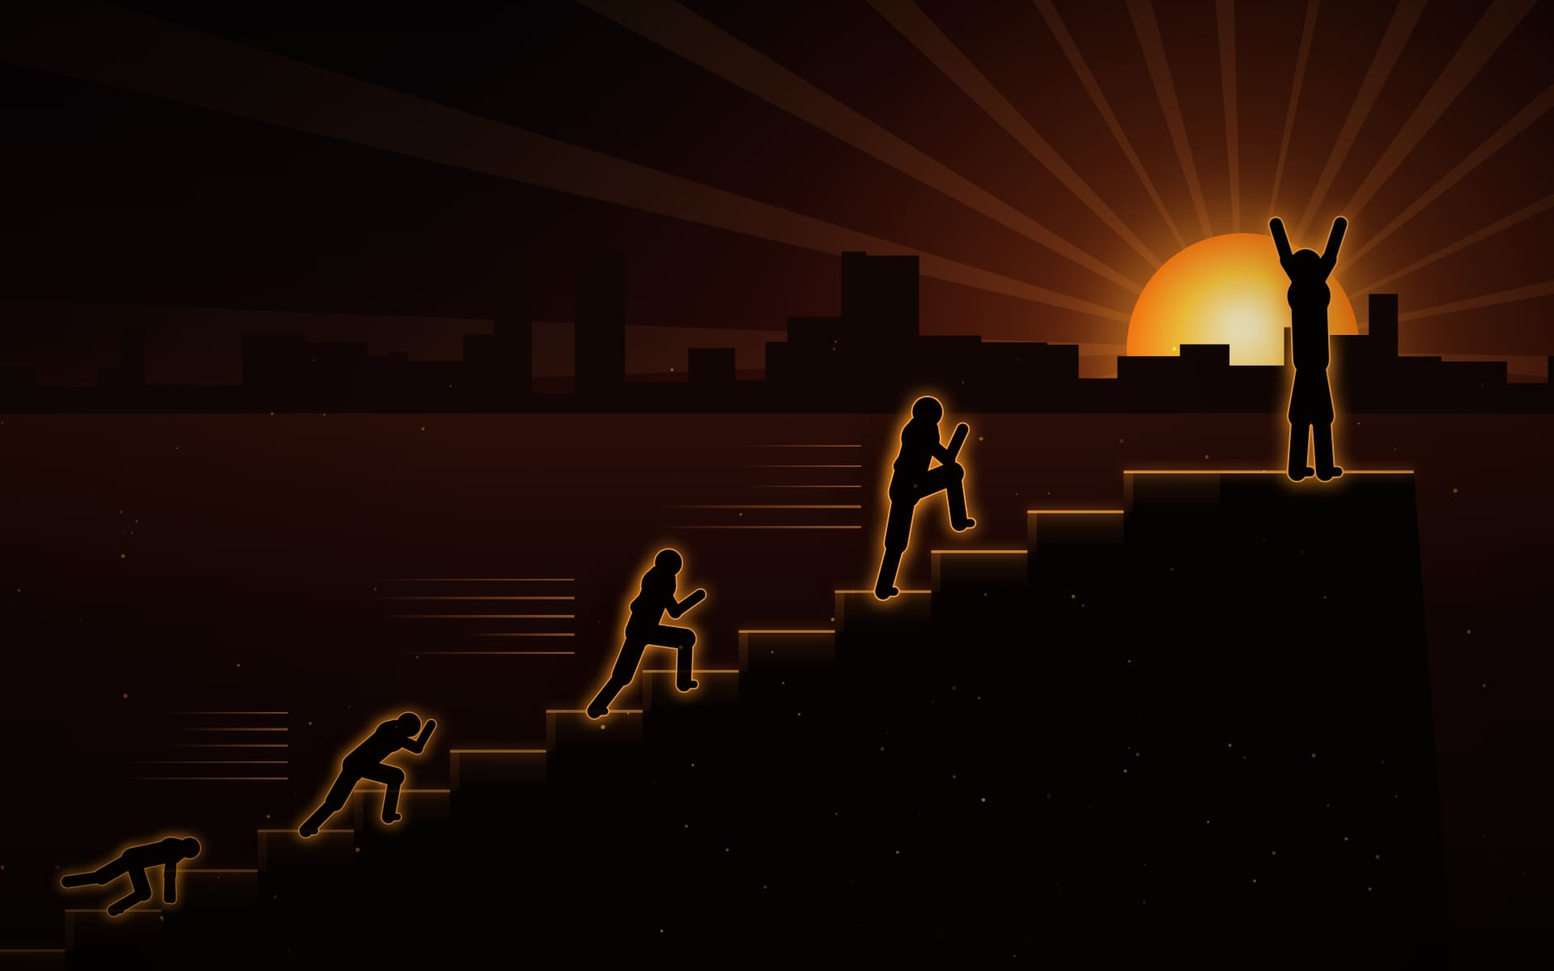
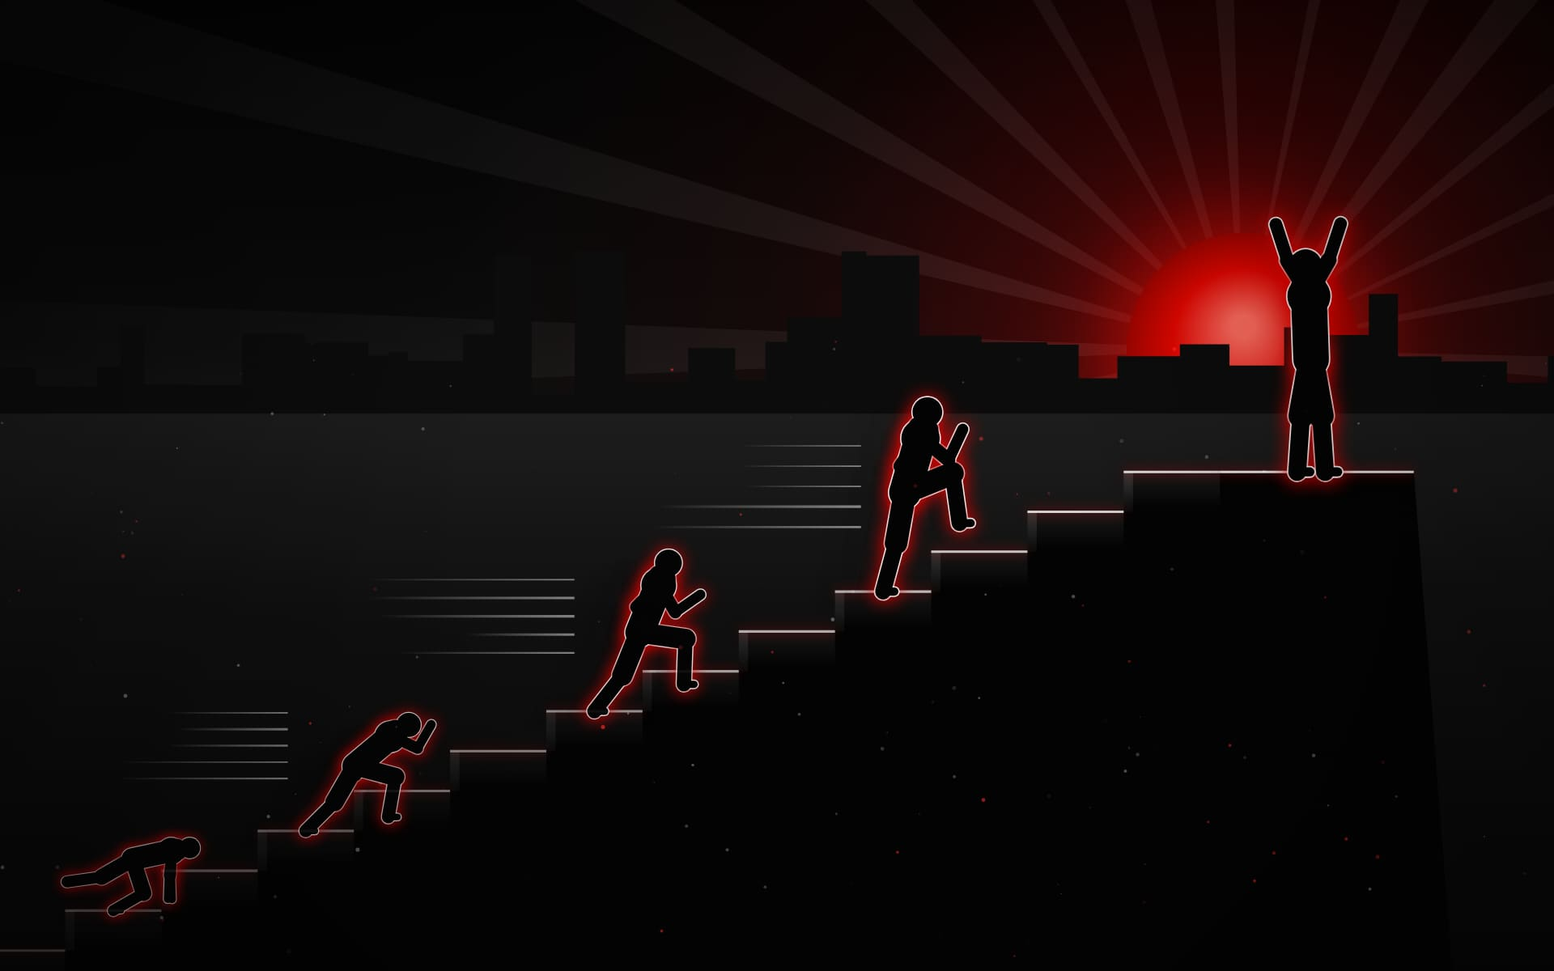
Luxury black, white and red colour scheme; background recoloured to match
Claude-Session: https://claude.ai/code/session_015HK9XfXWS6XuzpB8tKHbMa

diff --git a/web/app.css b/web/app.css
@@ -4,25 +4,25 @@
    Layout: sticky brand bar; side menu on wide screens; bottom tab bar on phones. */
 :root{
   color-scheme:dark;
-  --night:#060303;
-  --panel:rgba(14,6,5,.86);
-  --panel-solid:#140A08;
-  --lift:rgba(255,226,200,.07);
-  --line:rgba(255,196,150,.20);
-  --line-strong:rgba(255,196,150,.38);
-  --ivory:#FFF7EE;
-  --muted:#E6D6C6;
-  --ember:#FF3B26;
-  --flame:#FF7A12;
-  --gold:#FFC31F;
-  --ink:#1A0B05;
+  --night:#040404;
+  --panel:rgba(8,8,8,.86);
+  --panel-solid:#0D0D0D;
+  --lift:rgba(232,232,232,.07);
+  --line:rgba(255,255,255,.12);
+  --line-strong:rgba(255,255,255,.26);
+  --ivory:#FFFFFF;
+  --muted:#C2C2C2;
+  --ember:#E10600;
+  --flame:#E10600;
+  --gold:#FF3B30;
+  --ink:#FFFFFF;
   --ok:#7BE3A4;
-  --bad:#FF9A8A;
-  --scrim:rgba(6,3,3,.66);
-  --glow:0 0 14px rgba(255,150,40,.55),0 0 38px rgba(255,80,20,.30);
-  --glow-sm:0 0 12px rgba(255,150,40,.38);
-  --tglow:0 0 14px rgba(255,150,40,.62),0 0 2px rgba(255,210,140,.45);
-  --tsoft:0 0 12px rgba(255,140,40,.22);
+  --bad:#FF3B30;
+  --scrim:rgba(4,4,4,.66);
+  --glow:0 0 16px rgba(225,6,0,.45),0 10px 30px rgba(225,6,0,.22);
+  --glow-sm:0 0 12px rgba(225,6,0,.30);
+  --tglow:0 0 18px rgba(225,6,0,.45);
+  --tsoft:0 1px 2px rgba(0,0,0,.6);
   --display:'Barlow Condensed','Arial Narrow',system-ui,sans-serif;
   --body:'Barlow',system-ui,-apple-system,'Segoe UI',sans-serif;
   --tab-h:66px;
@@ -33,7 +33,7 @@ img{max-width:100%}
 [hidden]{display:none!important}
 body{background:var(--night);color:var(--ivory);font:16px/1.55 var(--body);text-shadow:var(--tsoft);-webkit-tap-highlight-color:transparent}
 h1,h2,h3,p,ul,ol{margin:0}ul,ol{padding:0;list-style:none}
-h1,h2{font-family:var(--display);letter-spacing:.005em;text-transform:uppercase;text-wrap:balance;font-weight:800;line-height:.98;text-shadow:0 0 20px rgba(255,150,40,.42),0 2px 18px rgba(0,0,0,.65)}
+h1,h2{font-family:var(--display);letter-spacing:.005em;text-transform:uppercase;text-wrap:balance;font-weight:800;line-height:.98;text-shadow:0 2px 18px rgba(0,0,0,.7)}
 h1{font-size:clamp(34px,5.6vw,60px)}
 h2{font-size:clamp(26px,3.2vw,34px)}
 h3{font-size:18px;font-weight:600;line-height:1.3}
@@ -44,17 +44,17 @@ a{color:var(--ivory)}
 /* ---- the artwork behind every screen */
 .bg{position:fixed;inset:0;z-index:-1;background:var(--night) url("bg-wide.jpg") center/cover no-repeat;pointer-events:none}
 @media(orientation:portrait){.bg{background-image:url("bg-tall.jpg")}}
-.bg::before{content:"";position:absolute;inset:0;background:radial-gradient(60% 50% at 70% 60%,rgba(255,120,30,.22),transparent 70%);animation:breathe 9s ease-in-out infinite}
+.bg::before{content:"";position:absolute;inset:0;background:radial-gradient(60% 50% at 70% 60%,rgba(225,6,0,.22),transparent 70%);animation:breathe 9s ease-in-out infinite}
 .bg::after{content:"";position:absolute;inset:0;background:url("grain.png");opacity:.55;mix-blend-mode:overlay}
 @keyframes breathe{0%,100%{opacity:.25}50%{opacity:1}}
 
 /* ---- icons */
-.ic{width:22px;height:22px;flex:none;fill:none;stroke:currentColor;stroke-width:1.8;stroke-linecap:round;stroke-linejoin:round;filter:drop-shadow(0 0 6px rgba(255,150,40,.7))}
+.ic{width:22px;height:22px;flex:none;fill:none;stroke:currentColor;stroke-width:1.8;stroke-linecap:round;stroke-linejoin:round;filter:drop-shadow(0 0 6px rgba(225,6,0,.7))}
 
 /* ---- top bar */
-.top{position:sticky;top:env(safe-area-inset-top,0px);z-index:6;background:rgba(8,4,4,.72);-webkit-backdrop-filter:blur(18px) saturate(1.3);backdrop-filter:blur(18px) saturate(1.3);border-bottom:1px solid var(--line)}
+.top{position:sticky;top:env(safe-area-inset-top,0px);z-index:6;background:rgba(5,5,5,.72);-webkit-backdrop-filter:blur(18px) saturate(1.3);backdrop-filter:blur(18px) saturate(1.3);border-bottom:1px solid var(--line)}
 .bar{display:flex;align-items:center;gap:10px 14px;max-width:1220px;margin:0 auto;padding:10px 16px}
-.mark{font-family:var(--display);font-size:32px;font-weight:800;font-style:italic;text-transform:uppercase;letter-spacing:.01em;text-decoration:none;line-height:1;margin-right:auto;text-shadow:0 0 18px rgba(255,150,40,.5)}
+.mark{font-family:var(--display);font-size:32px;font-weight:800;font-style:italic;text-transform:uppercase;letter-spacing:.01em;text-decoration:none;line-height:1;margin-right:auto;text-shadow:0 0 18px rgba(225,6,0,.5)}
 .chip{display:flex;align-items:center;gap:10px;min-height:44px;padding:0 6px;text-decoration:none;font-weight:600;min-width:0}
 .chip .who{white-space:nowrap;overflow:hidden;text-overflow:ellipsis;max-width:26vw;color:var(--muted)}
 .chip .dot{width:36px;height:36px;flex:none;border-radius:50%;display:grid;place-items:center;font:700 14px var(--body);color:var(--ink);background:linear-gradient(135deg,var(--gold),var(--flame));box-shadow:var(--glow-sm);text-shadow:none}
@@ -72,7 +72,7 @@ main{min-width:0;display:flex;flex-direction:column;gap:20px}
 .nav:empty{display:none}
 .nav a{position:relative;overflow:hidden;display:flex;align-items:center;gap:12px;min-height:46px;padding:0 14px;border-radius:14px;color:var(--muted);text-decoration:none;font-weight:500;transition:color .15s,background .15s}
 .nav a:hover{color:var(--ivory);background:var(--lift)}
-.nav a[aria-current="page"]{color:var(--gold);background:rgba(255,160,40,.12);box-shadow:inset 0 0 0 1px rgba(255,180,80,.35),var(--glow-sm);text-shadow:var(--tglow)}
+.nav a[aria-current="page"]{color:var(--gold);background:rgba(225,6,0,.12);box-shadow:inset 0 0 0 1px rgba(255,59,48,.35),var(--glow-sm);text-shadow:var(--tglow)}
 .navlabel{font-size:13px;font-weight:600;color:var(--flame);padding:14px 14px 4px;text-shadow:var(--tglow)}
 
 /* ---- bottom tab bar (phones) */
@@ -88,16 +88,16 @@ main{min-width:0;display:flex;flex-direction:column;gap:20px}
   body[data-route="room"] .tabbar,body[data-route="call"] .tabbar{display:none!important}
   body[data-route="room"] .shell,body[data-route="call"] .shell{padding-bottom:40px!important}
   body[data-tabs="1"] .shell{padding-bottom:calc(var(--tab-h) + env(safe-area-inset-bottom,0px) + 28px)}
-  body[data-tabs="1"] .tabbar{position:fixed;left:0;right:0;bottom:0;z-index:7;display:grid;grid-template-columns:repeat(5,minmax(0,1fr));padding:6px 6px calc(6px + env(safe-area-inset-bottom,0px));background:rgba(8,4,4,.80);-webkit-backdrop-filter:blur(20px) saturate(1.3);backdrop-filter:blur(20px) saturate(1.3);border-top:1px solid var(--line)}
+  body[data-tabs="1"] .tabbar{position:fixed;left:0;right:0;bottom:0;z-index:7;display:grid;grid-template-columns:repeat(5,minmax(0,1fr));padding:6px 6px calc(6px + env(safe-area-inset-bottom,0px));background:rgba(5,5,5,.80);-webkit-backdrop-filter:blur(20px) saturate(1.3);backdrop-filter:blur(20px) saturate(1.3);border-top:1px solid var(--line)}
 }
 .tab{position:relative;overflow:hidden;display:flex;flex-direction:column;align-items:center;justify-content:center;gap:3px;min-height:54px;border-radius:14px;color:var(--muted);text-decoration:none;font-size:12px;font-weight:600;transition:color .15s,transform .12s}
 .tab .ic{width:24px;height:24px}
 .tab[aria-current="page"]{color:var(--gold);text-shadow:var(--tglow)}
-.tab[aria-current="page"] .ic{filter:drop-shadow(0 0 9px rgba(255,170,40,.95))}
+.tab[aria-current="page"] .ic{filter:drop-shadow(0 0 9px rgba(225,6,0,.95))}
 .tab:active{transform:scale(.92)}
 
 /* ---- text helpers */
-.eyebrow{font-size:14px;font-weight:600;color:var(--flame);text-shadow:var(--tglow)}
+.eyebrow{font-size:14px;font-weight:600;color:var(--gold);text-shadow:var(--tglow)}
 .lede{font-size:18px;line-height:1.55;max-width:56ch}
 .meta{color:var(--muted);font-size:15px}
 .it{font-weight:600}
@@ -111,39 +111,39 @@ main{min-width:0;display:flex;flex-direction:column;gap:20px}
 @media(max-width:1080px){.cols.quad{grid-template-columns:repeat(2,minmax(0,1fr));gap:12px}}
 
 /* ---- panels */
-.card,.pagehead{background:var(--panel);border:1px solid var(--line);border-radius:22px;padding:22px;display:flex;flex-direction:column;gap:14px;min-width:0;box-shadow:0 14px 44px rgba(0,0,0,.45),inset 0 1px 0 rgba(255,226,190,.09)}
+.card,.pagehead{background:var(--panel);border:1px solid var(--line);border-radius:22px;padding:22px;display:flex;flex-direction:column;gap:14px;min-width:0;box-shadow:0 14px 44px rgba(0,0,0,.45),inset 0 1px 0 rgba(231,231,231,.09)}
 .pagehead{gap:8px}
 .card .pagehead{background:none;border:0;padding:0;box-shadow:none;border-radius:0}
-.card.glow{background:linear-gradient(135deg,rgba(255,90,20,.30),rgba(17,8,7,.84) 58%);border-color:var(--line-strong);box-shadow:0 14px 44px rgba(0,0,0,.45),0 0 34px rgba(255,90,20,.22),inset 0 1px 0 rgba(255,226,190,.14)}
+.card.glow{background:linear-gradient(135deg,rgba(225,6,0,.30),rgba(11,11,11,.84) 58%);border-color:var(--line-strong);box-shadow:0 14px 44px rgba(0,0,0,.45),0 0 34px rgba(225,6,0,.22),inset 0 1px 0 rgba(231,231,231,.14)}
 .hero{padding:clamp(24px,5vw,60px);gap:20px}
 
 /* ---- buttons */
 .btn{position:relative;overflow:hidden;display:inline-flex;align-items:center;justify-content:center;gap:8px;min-height:50px;padding:0 24px;border-radius:27px;border:1px solid var(--line-strong);background:var(--lift);color:var(--ivory);font:600 16px var(--body);cursor:pointer;text-decoration:none;text-shadow:var(--tsoft);transition:transform .12s,box-shadow .2s,border-color .2s,background .2s;-webkit-user-select:none;user-select:none}
 .btn:hover{border-color:var(--gold);box-shadow:var(--glow-sm)}
 .btn:active{transform:scale(.95)}
-.btn.gold{background:linear-gradient(135deg,#FFD23A,var(--flame));border-color:transparent;color:var(--ink);text-shadow:none;box-shadow:var(--glow)}
-.btn.gold:hover{box-shadow:0 0 18px rgba(255,170,40,.8),0 0 52px rgba(255,90,20,.45)}
+.btn.gold{background:linear-gradient(135deg,#FF2A1F,#A80400);border-color:transparent;color:var(--ink);text-shadow:none;box-shadow:var(--glow)}
+.btn.gold:hover{box-shadow:0 0 18px rgba(225,6,0,.8),0 0 52px rgba(225,6,0,.45)}
 .btn.gold .ic{filter:none}
 .btn.sm{min-height:44px;padding:0 18px;font-size:15px}
-.btn.bad{color:var(--bad);border-color:rgba(255,154,138,.45)}
-.btn.bad:hover{box-shadow:0 0 14px rgba(255,90,70,.5);border-color:var(--bad)}
-.btn[aria-pressed="true"]{background:rgba(255,170,40,.20);border-color:var(--gold);color:var(--gold);box-shadow:var(--glow-sm);text-shadow:var(--tglow)}
-.btn.gold[aria-pressed="true"]{background:linear-gradient(135deg,#FFD23A,var(--flame));color:var(--ink);text-shadow:none}
+.btn.bad{color:var(--bad);border-color:rgba(255,59,48,.45)}
+.btn.bad:hover{box-shadow:0 0 14px rgba(255,59,48,.5);border-color:var(--bad)}
+.btn[aria-pressed="true"]{background:rgba(225,6,0,.20);border-color:var(--gold);color:var(--gold);box-shadow:var(--glow-sm);text-shadow:var(--tglow)}
+.btn.gold[aria-pressed="true"]{background:linear-gradient(135deg,#FF2A1F,#A80400);color:var(--ink);text-shadow:none}
 .btn:disabled{opacity:.45;cursor:default;box-shadow:none}
 .linkbtn{background:none;border:0;padding:0;color:var(--ivory);font:inherit;text-decoration:underline;cursor:pointer;min-height:44px}
 
 /* light that spreads from the point you tap */
-.ripple{position:absolute;border-radius:50%;pointer-events:none;background:radial-gradient(circle,rgba(255,236,190,.55),rgba(255,150,40,.25) 40%,transparent 70%);transform:scale(0);animation:ripple .55s ease-out forwards}
+.ripple{position:absolute;border-radius:50%;pointer-events:none;background:radial-gradient(circle,rgba(237,237,237,.55),rgba(225,6,0,.25) 40%,transparent 70%);transform:scale(0);animation:ripple .55s ease-out forwards}
 @keyframes ripple{to{transform:scale(1);opacity:0}}
 
 /* ---- tags */
 .tag{display:inline-flex;align-items:center;gap:6px;font-size:13px;font-weight:600;padding:2px 10px;border-radius:11px;border:1px solid var(--line-strong);color:var(--muted);vertical-align:middle;white-space:nowrap}
-.tag.live{background:var(--ember);border-color:var(--ember);color:#fff;text-shadow:none;box-shadow:0 0 14px rgba(255,59,38,.8);animation:pulse 1.8s ease-in-out infinite}
-.tag.live::before{content:"";width:7px;height:7px;border-radius:50%;background:#fff}
+.tag.live{background:var(--ember);border-color:var(--ember);color:#FFFFFF;text-shadow:none;box-shadow:0 0 14px rgba(225,6,0,.8);animation:pulse 1.8s ease-in-out infinite}
+.tag.live::before{content:"";width:7px;height:7px;border-radius:50%;background:#FFFFFF}
 .tag.ok{color:var(--ok);border-color:rgba(123,227,164,.5)}
-.tag.warn{color:var(--gold);border-color:rgba(255,195,31,.5)}
-.tag.bad{color:var(--bad);border-color:rgba(255,154,138,.5)}
-@keyframes pulse{0%,100%{box-shadow:0 0 8px rgba(255,59,38,.55)}50%{box-shadow:0 0 22px rgba(255,59,38,1)}}
+.tag.warn{color:var(--gold);border-color:rgba(225,6,0,.5)}
+.tag.bad{color:var(--bad);border-color:rgba(255,59,48,.5)}
+@keyframes pulse{0%,100%{box-shadow:0 0 8px rgba(225,6,0,.55)}50%{box-shadow:0 0 22px rgba(225,6,0,1)}}
 
 /* ---- lists */
 .list{display:flex;flex-direction:column}
@@ -173,24 +173,24 @@ main{min-width:0;display:flex;flex-direction:column;gap:20px}
 /* ---- forms */
 label{font-weight:500;font-size:15px}
 .field{display:flex;flex-direction:column;gap:6px;flex:1 1 220px;min-width:0}
-input[type=text],input[type=tel],input[type=email],input[type=password],input[type=file],input[type=number],input[type=datetime-local],input[type=date],select,textarea{width:100%;min-height:52px;padding:12px 14px;border-radius:14px;border:1px solid var(--line-strong);background:rgba(255,226,200,.06);color:var(--ivory);font:16px var(--body);transition:border-color .2s,box-shadow .2s}
+input[type=text],input[type=tel],input[type=email],input[type=password],input[type=file],input[type=number],input[type=datetime-local],input[type=date],select,textarea{width:100%;min-height:52px;padding:12px 14px;border-radius:14px;border:1px solid var(--line-strong);background:rgba(232,232,232,.06);color:var(--ivory);font:16px var(--body);transition:border-color .2s,box-shadow .2s}
 textarea{min-height:96px}
 select option{background:var(--panel-solid);color:var(--ivory)}
-input:focus,select:focus,textarea:focus{outline:none;border-color:var(--gold);box-shadow:0 0 0 3px rgba(255,170,40,.22),var(--glow-sm)}
-::placeholder{color:rgba(230,214,198,.55)}
+input:focus,select:focus,textarea:focus{outline:none;border-color:var(--gold);box-shadow:0 0 0 3px rgba(225,6,0,.22),var(--glow-sm)}
+::placeholder{color:rgba(217,217,217,.55)}
 .check{display:flex;gap:12px;align-items:center;min-height:48px;cursor:pointer}
 .check input{width:24px;height:24px;accent-color:var(--gold);flex:none}
-.check input:checked{filter:drop-shadow(0 0 7px rgba(255,170,40,.85))}
+.check input:checked{filter:drop-shadow(0 0 7px rgba(225,6,0,.85))}
 details summary{cursor:pointer;min-height:44px;display:flex;align-items:center;font-weight:600}
 
 /* ---- live room */
 .stage{display:grid;grid-template-columns:minmax(0,1.7fr) minmax(0,1fr);gap:12px}
 .mgrid{display:grid;grid-template-columns:repeat(2,minmax(0,1fr));gap:10px;align-content:start}
 @media(max-width:700px){.stage{grid-template-columns:minmax(0,1fr)}.mgrid{grid-template-columns:repeat(3,minmax(0,1fr));gap:8px}}
-.tile{position:relative;aspect-ratio:4/3;max-width:100%;border-radius:16px;border:1px solid var(--line-strong);background:rgba(17,8,7,.55);display:grid;place-items:center;overflow:hidden;box-shadow:0 8px 26px rgba(0,0,0,.45),0 0 16px rgba(255,110,30,.16)}
-.tile.big{aspect-ratio:16/10;border-color:rgba(255,190,90,.6);box-shadow:0 12px 40px rgba(0,0,0,.5),0 0 34px rgba(255,110,30,.35)}
-.tile.glow{background:rgba(17,8,7,.34)}
-.tile .av{width:38%;max-width:96px;aspect-ratio:1;border-radius:50%;display:grid;place-items:center;background:rgba(6,3,3,.72);border:1px solid var(--line-strong);font:700 clamp(15px,3vw,26px) var(--display);color:var(--gold);text-shadow:var(--tglow);box-shadow:var(--glow-sm)}
+.tile{position:relative;aspect-ratio:4/3;max-width:100%;border-radius:16px;border:1px solid var(--line-strong);background:rgba(11,11,11,.55);display:grid;place-items:center;overflow:hidden;box-shadow:0 8px 26px rgba(0,0,0,.45),0 0 16px rgba(225,6,0,.16)}
+.tile.big{aspect-ratio:16/10;border-color:rgba(255,59,48,.6);box-shadow:0 12px 40px rgba(0,0,0,.5),0 0 34px rgba(225,6,0,.35)}
+.tile.glow{background:rgba(11,11,11,.34)}
+.tile .av{width:38%;max-width:96px;aspect-ratio:1;border-radius:50%;display:grid;place-items:center;background:rgba(4,4,4,.72);border:1px solid var(--line-strong);font:700 clamp(15px,3vw,26px) var(--display);color:var(--gold);text-shadow:var(--tglow);box-shadow:var(--glow-sm)}
 .tile .nm{position:absolute;left:8px;bottom:7px;max-width:calc(100% - 16px);white-space:nowrap;overflow:hidden;text-overflow:ellipsis;font-size:13px;font-weight:600;background:var(--scrim);padding:2px 9px;border-radius:9px;z-index:1}
 .tile .flag{position:absolute;right:0;top:0;z-index:1;display:grid;place-items:center;width:44px;height:44px;border:0;border-radius:50%;background:transparent;color:var(--ivory);cursor:pointer;overflow:hidden}
 .tile .flag:hover{color:var(--bad)}
@@ -198,27 +198,27 @@ details summary{cursor:pointer;min-height:44px;display:flex;align-items:center;f
 .tile.me video{transform:scaleX(-1)}
 #rm-panel:empty,#rm-host:empty,#rm-video:empty{display:none}
 /* the session video: a YouTube player everyone follows together */
-.tile.yt{aspect-ratio:16/9;display:block;background:#000;border-color:rgba(255,190,90,.6);box-shadow:0 12px 40px rgba(0,0,0,.5),0 0 34px rgba(255,110,30,.35)}
+.tile.yt{aspect-ratio:16/9;display:block;background:#000000;border-color:rgba(255,59,48,.6);box-shadow:0 12px 40px rgba(0,0,0,.5),0 0 34px rgba(225,6,0,.35)}
 .tile.yt #rm-yt{position:absolute;inset:0;width:100%;height:100%;border:0}
 .ytshield{position:absolute;inset:0;z-index:1}
-.ytmsg{position:absolute;left:12px;right:12px;bottom:12px;z-index:2;display:flex;flex-wrap:wrap;gap:10px;align-items:center;justify-content:space-between;padding:10px 14px;border-radius:14px;background:rgba(8,4,4,.84);border:1px solid var(--line-strong);font-weight:600}
+.ytmsg{position:absolute;left:12px;right:12px;bottom:12px;z-index:2;display:flex;flex-wrap:wrap;gap:10px;align-items:center;justify-content:space-between;padding:10px 14px;border-radius:14px;background:rgba(5,5,5,.84);border:1px solid var(--line-strong);font-weight:600}
 #rm-audio{position:absolute;width:0;height:0;overflow:hidden}
 #rm-controls{padding:12px;border-radius:22px;background:var(--panel);border:1px solid var(--line)}
 
 /* ---- other pieces */
 .bubble{max-width:80%;padding:10px 15px;border-radius:18px;background:var(--lift);border:1px solid var(--line);align-self:flex-start;overflow-wrap:anywhere}
-.bubble.me{background:linear-gradient(135deg,#FFD23A,var(--flame));border-color:transparent;color:var(--ink);align-self:flex-end;text-shadow:none;box-shadow:var(--glow-sm)}
+.bubble.me{background:linear-gradient(135deg,#FF2A1F,#A80400);border-color:transparent;color:var(--ink);align-self:flex-end;text-shadow:none;box-shadow:var(--glow-sm)}
 .prog{height:9px;border-radius:5px;background:var(--lift);overflow:hidden}
-.prog>div{height:100%;border-radius:5px;background:linear-gradient(90deg,var(--flame),var(--gold));box-shadow:0 0 12px rgba(255,170,40,.8)}
+.prog>div{height:100%;border-radius:5px;background:linear-gradient(90deg,var(--flame),var(--gold));box-shadow:0 0 12px rgba(225,6,0,.8)}
 .tw{overflow-x:auto}
 table{border-collapse:collapse;width:100%;min-width:460px;font-variant-numeric:tabular-nums}
 th,td{text-align:left;padding:13px 10px;border-top:1px solid var(--line)}
 th{font-size:14px;color:var(--flame);font-weight:600;border-top:0;text-shadow:var(--tglow)}
-canvas{display:block;width:min(100%,320px);border-radius:18px;border:1px solid var(--line-strong);touch-action:none;background:rgba(6,3,3,.6);box-shadow:var(--glow-sm)}
-.banner{display:flex;flex-wrap:wrap;gap:10px 14px;align-items:center;background:linear-gradient(135deg,#FFD23A,var(--flame));color:var(--ink);border-radius:18px;padding:12px 16px;font-weight:600;text-shadow:none;box-shadow:var(--glow)}
-.banner .btn{background:rgba(26,11,5,.12);border-color:var(--ink);color:var(--ink);min-height:44px;text-shadow:none}
+canvas{display:block;width:min(100%,320px);border-radius:18px;border:1px solid var(--line-strong);touch-action:none;background:rgba(4,4,4,.6);box-shadow:var(--glow-sm)}
+.banner{display:flex;flex-wrap:wrap;gap:10px 14px;align-items:center;background:linear-gradient(135deg,#FF2A1F,#A80400);color:var(--ink);border-radius:18px;padding:12px 16px;font-weight:600;text-shadow:none;box-shadow:var(--glow)}
+.banner .btn{background:rgba(15,15,15,.12);border-color:var(--ink);color:var(--ink);min-height:44px;text-shadow:none}
 .idimg{max-width:100%;max-height:70vh;border-radius:14px;border:1px solid var(--line-strong)}
-.toast{position:fixed;left:50%;bottom:calc(env(safe-area-inset-bottom,0px) + 22px);transform:translateX(-50%);max-width:calc(100% - 32px);background:linear-gradient(135deg,#FFF1D6,#FFD9A0);color:var(--ink);padding:13px 20px;border-radius:16px;font-weight:600;z-index:9;text-shadow:none;box-shadow:var(--glow),0 10px 30px rgba(0,0,0,.5);animation:toast .28s cubic-bezier(.2,.9,.3,1.3)}
+.toast{position:fixed;left:50%;bottom:calc(env(safe-area-inset-bottom,0px) + 22px);transform:translateX(-50%);max-width:calc(100% - 32px);background:#FFFFFF;color:#0A0A0A;padding:13px 20px;border-radius:16px;font-weight:600;z-index:9;text-shadow:none;box-shadow:var(--glow),0 10px 30px rgba(0,0,0,.5);animation:toast .28s cubic-bezier(.2,.9,.3,1.3)}
 @media(max-width:860px){body[data-tabs="1"] .toast{bottom:calc(var(--tab-h) + env(safe-area-inset-bottom,0px) + 22px)}}
 @keyframes toast{from{transform:translate(-50%,24px);opacity:0}}
 
@@ -236,14 +236,14 @@ main.enter>*:nth-child(n+4){animation-delay:.15s}
 }
 
 /* ---------------------------------------------------------------- members, profiles, messages */
-.pic{position:relative;flex:none;display:inline-grid;place-items:center;border-radius:50%;background:linear-gradient(135deg,rgba(255,195,31,.28),rgba(255,90,20,.22));border:1px solid var(--line-strong);box-shadow:var(--glow-sm);font:700 16px var(--display);color:var(--gold);text-shadow:var(--tglow)}
+.pic{position:relative;flex:none;display:inline-grid;place-items:center;border-radius:50%;background:linear-gradient(135deg,rgba(225,6,0,.28),rgba(225,6,0,.22));border:1px solid var(--line-strong);box-shadow:var(--glow-sm);font:700 16px var(--display);color:var(--gold);text-shadow:var(--tglow)}
 .pic img{width:100%;height:100%;border-radius:50%;object-fit:cover;display:block}
 .pic.md{width:48px;height:48px}
 .pic.lg{width:76px;height:76px;font-size:24px}
 .pic.xl{width:120px;height:120px;font-size:38px;box-shadow:var(--glow)}
-.pdot{position:absolute;right:2px;bottom:2px;width:14px;height:14px;border-radius:50%;background:var(--ok);border:2px solid #120806;box-shadow:0 0 10px rgba(123,227,164,.8)}
+.pdot{position:absolute;right:2px;bottom:2px;width:14px;height:14px;border-radius:50%;background:var(--ok);border:2px solid #0B0B0B;box-shadow:0 0 10px rgba(123,227,164,.8)}
 .pic.xl .pdot{width:20px;height:20px;right:8px;bottom:8px}
-.pdot.live{background:var(--ember);box-shadow:0 0 12px rgba(255,59,38,.9);animation:pulse 1.8s ease-in-out infinite}
+.pdot.live{background:var(--ember);box-shadow:0 0 12px rgba(225,6,0,.9);animation:pulse 1.8s ease-in-out infinite}
 .hot{color:var(--gold);text-shadow:var(--tglow);font-weight:600}
 .pname{font-weight:700;color:var(--ivory)}
 .pname.big{font:700 clamp(26px,6vw,34px)/1.1 var(--display);margin:0}
@@ -260,7 +260,7 @@ main.enter>*:nth-child(n+4){animation-delay:.15s}
 .tbody{display:flex;flex-direction:column;gap:2px;min-width:0}
 .clip{overflow:hidden;text-overflow:ellipsis;white-space:nowrap}
 .tside{align-items:flex-end;gap:4px;flex:none}
-.badge{display:inline-grid;place-items:center;min-width:22px;height:22px;padding:0 6px;border-radius:11px;background:var(--ember);color:#fff;font:700 12px var(--body);box-shadow:0 0 12px rgba(255,59,38,.7);text-shadow:none}
+.badge{display:inline-grid;place-items:center;min-width:22px;height:22px;padding:0 6px;border-radius:11px;background:var(--ember);color:#FFFFFF;font:700 12px var(--body);box-shadow:0 0 12px rgba(225,6,0,.7);text-shadow:none}
 .nav a .badge{margin-left:auto}
 .tab .badge{position:absolute;top:4px;left:calc(50% + 6px);min-width:18px;height:18px;font-size:11px;padding:0 5px}
 .chathead{flex-direction:row;align-items:center;gap:12px;flex-wrap:wrap;padding:14px 18px}
@@ -277,7 +277,7 @@ main.enter>*:nth-child(n+4){animation-delay:.15s}
 .board .pl{font-weight:700;color:var(--muted);min-width:3ch}
 .board li.top{border-color:var(--gold);box-shadow:var(--glow-sm)}
 .board li.top .pl{color:var(--gold);text-shadow:var(--tglow)}
-.board li.mine{background:rgba(255,170,40,.14)}
+.board li.mine{background:rgba(225,6,0,.14)}
 .bigtime{font:700 clamp(30px,8vw,42px)/1.1 var(--display);color:var(--gold);text-shadow:var(--tglow)}
 
 /* ---------------------------------------------------------------- sport type: condensed, upright for headings, slanted for the gold words */
